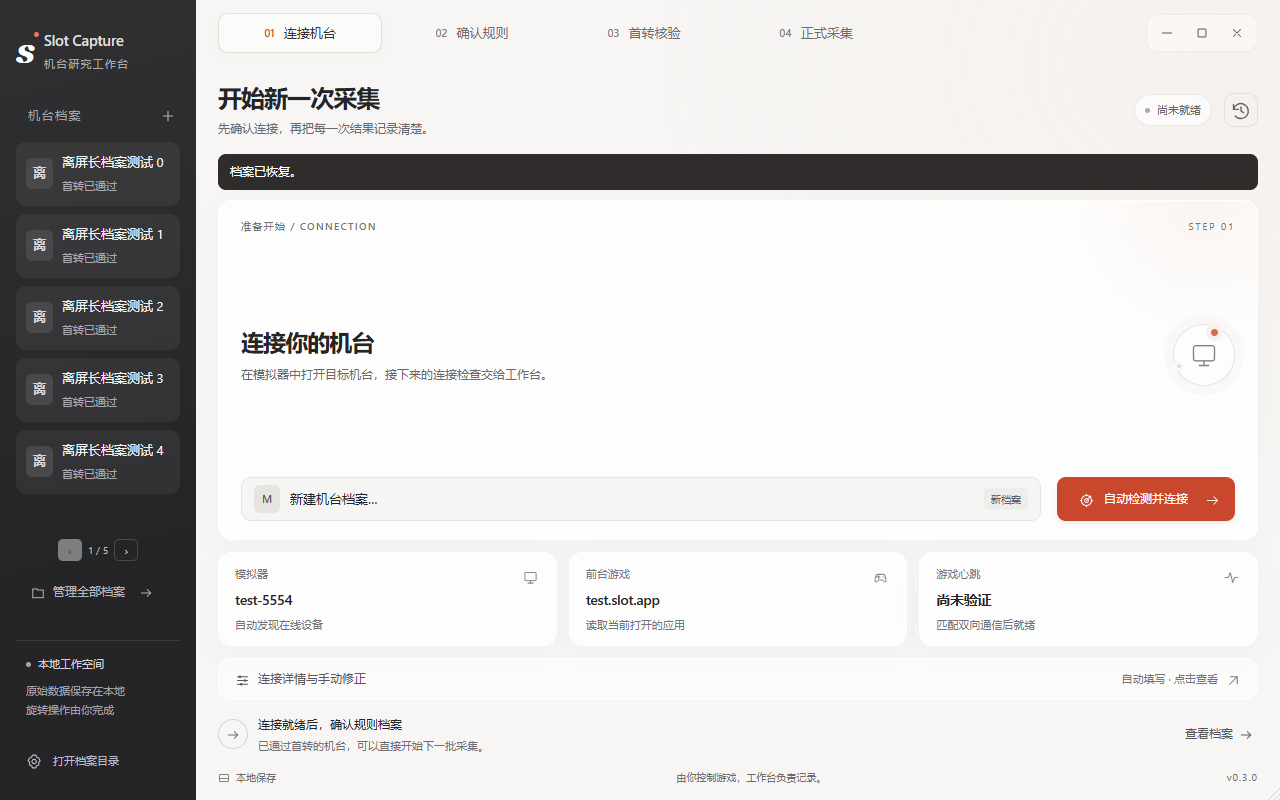
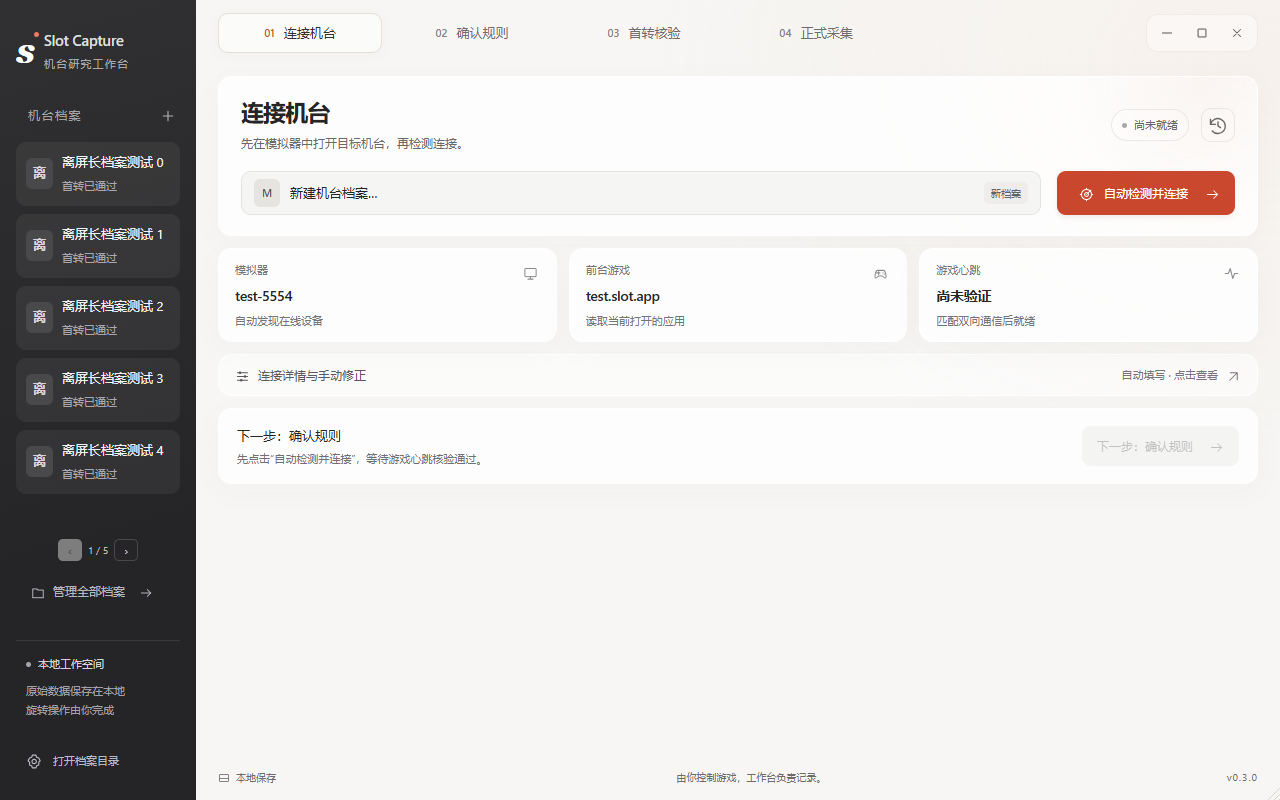
Compact connection card and add dismissible notices with clear next step

diff --git a/src/slotcapture/webui/desktop.js b/src/slotcapture/webui/desktop.js
@@ -8,7 +8,7 @@ const labels={PREPARED:'计划已建立',STARTING:'正在连接',CHECKING_CONNEC
   WAITING_FOR_SPIN:'等待你在游戏内旋转',CAPTURING:'正在记录结果',DRAINING:'请停止新增付费，等待奖励链收尾',
   COMPLETE:'最终审计完成',STOPPED_EARLY:'提前结束',STOPPED_INCOMPLETE:'数据不完整',FAILED:'采集失败'};
 const purposes={connection:'连接核验',first_spin:'首转核验',sampling:'正式采集'};
-const views={connect:['连接机台','开始新一次采集','先确认连接，再把每一次结果记录清楚。'],
+const views={connect:['连接机台','连接机台','先在模拟器中打开目标机台，再检测连接。'],
   rules:['规则档案','让规则成为可复用的档案','提取、核对、保存，下一次不用重新开始。'],
   verify:['首转核验','先验证这一转，再记录下一百转','奖励链完整、最终审计通过后，才算准备好。'],
   capture:['实时采集','专注这一批，看清每一个结果','Bet 自动读取，免费次数另计，奖励链收完再结束。']};
@@ -20,12 +20,23 @@ function changeView(name){
   ['breadcrumb-page','page-title','page-subtitle'].forEach((id,i)=>$('#'+id).textContent=views[name][i]);
   $('.content-layout').classList.toggle('rules-mode',name==='rules');
   $('.ai-panel').hidden=name!=='rules';
+  $('.workspace').classList.toggle('connection-page',name==='connect');
+  const header=$('.masthead');
+  if(name==='connect')$('.connection-header-slot').append(header);
+  else $('.workspace').insertBefore(header,$('#work-status'));
   renderRules();renderEvents();
   location.hash=name;
 }
-let toastTimer;
-function toast(text){$('#toast').textContent=text;$('#toast').hidden=false;clearTimeout(toastTimer);toastTimer=setTimeout(()=>$('#toast').hidden=true,4500);}
-function message(text,kind=''){const el=$('#work-status');el.textContent=text;el.title=text;el.className=kind;el.hidden=!text;}
+let noticeTimer,lastNoticeKey=null,dismissedNoticeKey=null;
+function dismissNotice(){dismissedNoticeKey=lastNoticeKey;$('#work-status').hidden=true;clearTimeout(noticeTimer);}
+function toast(text){if($('#status-message').textContent!==text)message(text);}
+function message(text,kind='',key=null){
+  const el=$('#work-status');key=key||kind+':'+text;
+  $('#status-message').textContent=text;$('#status-details').title=text;el.className=kind;
+  if(key===lastNoticeKey){el.hidden=!text||dismissedNoticeKey===key;return;}
+  lastNoticeKey=key;dismissedNoticeKey=null;clearTimeout(noticeTimer);el.hidden=!text;
+  if(text&&!kind)noticeTimer=setTimeout(dismissNotice,6000);
+}
 function node(tag,text,cls){const el=document.createElement(tag);if(text!==undefined)el.textContent=text;if(cls)el.className=cls;return el;}
 async function api(method,...args){
   if(!window.pywebview?.api?.[method])throw Error('桌面接口尚未就绪，请稍候；独立浏览器页面无法执行采集。');
@@ -61,6 +72,21 @@ function gates(){
   $('#capture-start').disabled=locked||!state.ready||state.dirty||!p?.first_spin_verified;
   $('#verify-start').disabled=locked||!state.ready||state.dirty||!p?.rules_confirmed||!p?.symbols?.length;
   $('#verified-shortcut').hidden=!p?.first_spin_verified||state.dirty;
+  const next=$('#connection-next');let target='rules',label='下一步：确认规则';
+  let title='下一步：确认规则',description='先点击“自动检测并连接”，等待游戏心跳核验通过。';
+  if(state.active){
+    if(state.purpose==='connection'){title='正在核验游戏心跳';label='等待连接核验…';description='保持目标机台打开，检测完成后即可继续。';}
+    else{target=state.purpose==='first_spin'?'verify':'capture';label=target==='verify'?'查看首转核验':'查看当前采集';title='当前监听尚未结束';description='先完成当前任务，再开始下一步。';}
+  }else if(state.ready){
+    title='连接已就绪';description='核对 Symbol 与特色玩法，然后保存机台规则。';
+    if(!state.dirty&&p?.rules_confirmed&&p?.symbols?.length){
+      if(p.first_spin_verified){target='capture';label='下一步：正式采集';description='此规则已通过首转核验，可以设置本批次付费次数。';}
+      else{target='verify';label='下一步：首转核验';description='规则已确认。下一步手动旋转一次，验证结果与奖励结算。';}
+    }
+  }
+  next.dataset.target=target;next.querySelector('span').textContent=label;
+  next.disabled=state.busy||state.active&&state.purpose==='connection'||!state.active&&!state.ready;
+  $('#connection-next-title').textContent=title;$('#connection-next-description').textContent=description;
 }
 async function task(text,fn){
   if(state.busy){toast('上一步仍在执行，请稍候。');return;}
@@ -256,7 +282,7 @@ async function poll(){
         const text=s.state==='COMPLETE'?(d.purpose==='connection'?'游戏心跳已核验。可以确认规则或进入首转。':d.purpose==='first_spin'&&d.profile?.first_spin_verified?'首转最终审计通过，可以开始正式采集。':`${scope}完成，记录已保存。`):`${scope}结束：${labels[s.state]}。请查看事件和记录。`;
         message(text,s.state==='COMPLETE'?'':'error');toast(text);
       }
-    }else if(state.active)message(`${scope} · ${labels[s.state]||s.state} · 更新 ${new Date(s.checked_utc).toLocaleTimeString('zh-CN')}`);
+    }else if(state.active)message(`${scope} · ${labels[s.state]||s.state} · 更新 ${new Date(s.checked_utc).toLocaleTimeString('zh-CN')}`,'',state.run+':'+s.state);
     if(d.purpose==='first_spin'){
       const passed=s.state==='COMPLETE'&&!!d.profile?.first_spin_verified;
       $('#verify-caption').textContent=passed?'首转最终审计通过':labels[s.state]||s.state;
@@ -333,9 +359,9 @@ $('#add-symbol').onclick=()=>editRow('symbols');$('#add-feature').onclick=()=>ed
 $('#connection-options').onclick=()=>$('#connection-dialog').showModal();
 $('#edit-notes').onclick=()=>$('#notes-dialog').showModal();
 $('#show-events').onclick=()=>{state.pages.events=0;renderFullEvents();$('#events-dialog').showModal();};
-function showStatus(){if(!$('#work-status').textContent)return;$('#text-title').textContent='状态详情';$('#text-body').textContent=$('#work-status').textContent;$('#text-dialog').showModal();}
-$('#work-status').onclick=showStatus;$('#work-status').tabIndex=0;$('#work-status').setAttribute('role','button');
-$('#work-status').onkeydown=e=>{if(e.key==='Enter'||e.key===' '){e.preventDefault();showStatus();}};
+function showStatus(){if(!$('#status-message').textContent)return;$('#text-title').textContent='状态详情';$('#text-body').textContent=$('#status-message').textContent;$('#text-dialog').showModal();}
+$('#status-details').onclick=showStatus;$('#status-close').onclick=dismissNotice;
+$('#connection-next').onclick=()=>{if(!$('#connection-next').disabled)changeView($('#connection-next').dataset.target);};
 async function windowCommand(action){
   try{const result=await api('window_command',action);document.body.classList.toggle('window-maximized',result.maximized);}
   catch(e){toast(e.message);}

diff --git a/src/slotcapture/webui/layout.css b/src/slotcapture/webui/layout.css
@@ -58,3 +58,18 @@ body.desktop-app{height:100dvh;min-height:0;min-width:960px;overflow:hidden}
 .desktop-app dialog{max-height:calc(100dvh - 40px);overflow-y:auto;font-size:13px}.desktop-app .dialog-heading h2{font-size:20px}.desktop-app .details-fields{padding:16px 0;gap:16px}.desktop-app .details-fields label,.desktop-app .details-fields input{font-size:12px}.desktop-app #profile-notes{width:100%;height:180px;border:1px solid #d9d2ca;border-radius:8px;background:#fff;padding:12px;font:inherit;line-height:1.8;resize:vertical}.desktop-app #text-body{white-space:pre-wrap;line-height:1.8;overflow-wrap:anywhere;font-size:13px}.desktop-app #full-events .event-row{height:auto;min-height:40px}.desktop-app #full-events .event-row p{white-space:normal;overflow-wrap:anywhere}.desktop-app #events-pager{margin-top:12px}
 @media(max-width:1100px){.desktop-app .studio{grid-template-columns:176px minmax(0,1fr)}.desktop-app .workspace{padding-inline:18px}.desktop-app .content-layout.rules-mode{grid-template-columns:minmax(0,1fr) 230px;gap:14px}.desktop-app .step-nav .nav-item{font-size:12px;padding:0 7px;gap:6px}.desktop-app .masthead h1{font-size:22px}.desktop-app .status-card{padding-inline:12px}.desktop-app .capture-setup h2{font-size:17px}.desktop-app .sidebar{padding-inline:12px}}
 @media(max-height:700px){.desktop-app .workspace{grid-template-rows:58px 60px 32px minmax(0,1fr) 18px;gap:8px;padding-bottom:10px}.desktop-app .topbar .nav-item{height:36px}.desktop-app .masthead h1{font-size:21px}.desktop-app .masthead p{font-size:11px;margin-top:4px}.desktop-app #work-status{height:32px;padding-block:5px;font-size:11px}.desktop-app #view-connect{grid-template-rows:minmax(170px,1fr) 86px 38px 40px;gap:10px}.desktop-app #view-connect .hero{padding:14px 18px;gap:8px 12px}.desktop-app #view-connect h2{font-size:21px}.desktop-app #view-connect .device-orbit{width:50px;height:50px}.desktop-app .status-card{padding-block:10px}.desktop-app #view-rules{grid-template-rows:64px minmax(0,1fr) 80px 38px;gap:8px}.desktop-app .feature-card{padding-block:7px}.desktop-app .rules-profile{padding-block:7px}.desktop-app .verify-hero{padding:16px;gap:8px}.desktop-app .verify-hero h2{font-size:21px}.desktop-app .verification-stages{gap:16px}.desktop-app .workspace-footer{font-size:9px}.desktop-app .ai-panel{gap:8px}.desktop-app .metric>strong{font-size:22px}}
+
+/* A single compact connection card; notifications never reserve a layout row. */
+.desktop-app .workspace{grid-template-rows:66px 68px minmax(0,1fr) 22px}
+.desktop-app .content-layout{grid-row:3}.desktop-app .workspace-footer{grid-row:4}
+.desktop-app .workspace.connection-page{grid-template-rows:66px minmax(0,1fr) 22px}
+.desktop-app .connection-page .content-layout{grid-row:2}.desktop-app .connection-page .workspace-footer{grid-row:3}
+.desktop-app #view-connect{grid-template-rows:auto 94px 42px 76px;align-content:start;gap:12px}
+.desktop-app #view-connect .hero{grid-template-areas:'heading heading' 'field actions';grid-template-rows:auto 44px;gap:18px 16px;padding:20px 22px;align-content:start}
+.connection-header-slot{grid-area:heading;min-width:0}.desktop-app .connection-header-slot .masthead{grid-row:auto;min-height:0;height:auto;align-items:center}
+.desktop-app .connection-header-slot .masthead h1{font-size:23px}.desktop-app .connection-header-slot .masthead p{font-size:12px;margin:6px 0 0}
+.desktop-app .next-hint{padding:14px 18px;justify-content:space-between;gap:18px}.desktop-app .next-hint>.primary-button{flex:none;min-height:40px;gap:9px}.desktop-app .next-hint p{max-width:none;line-height:1.6}.desktop-app .next-hint strong{font-size:13px}
+.desktop-app #work-status{position:fixed;top:72px;right:28px;left:auto;z-index:10;display:flex;align-items:flex-start;gap:8px;width:min(490px,calc(100vw - 230px));height:auto;min-height:42px;padding:8px 8px 8px 14px;margin:0;overflow:visible;white-space:normal;cursor:default;border-radius:12px;box-shadow:0 8px 30px #25201d24}
+#status-details{flex:1;min-width:0;padding:3px 0;background:transparent;color:inherit;text-align:left;font:inherit;line-height:1.7}#status-message{display:-webkit-box;-webkit-line-clamp:3;-webkit-box-orient:vertical;overflow:hidden;overflow-wrap:anywhere}
+#status-close{flex:none;display:grid;place-items:center;width:28px;height:28px;padding:5px;background:transparent;color:inherit;border-radius:6px}#status-close:hover{background:#ffffff20}#status-close svg{width:15px;height:15px}
+@media(max-height:700px){.desktop-app .workspace{grid-template-rows:58px 60px minmax(0,1fr) 18px}.desktop-app .workspace.connection-page{grid-template-rows:58px minmax(0,1fr) 18px}.desktop-app #view-connect{grid-template-rows:auto 86px 38px 76px}.desktop-app #view-connect .hero{padding:16px 18px;gap:16px 12px}}

diff --git a/src/slotcapture/webui/index.html b/src/slotcapture/webui/index.html
@@ -35,13 +35,12 @@
       </div>
     </div>
     <header class="masthead"><div><div class="breadcrumb">工作台 <span>/</span> <span id="breadcrumb-page">连接机台</span></div><h1 id="page-title">开始新一次采集</h1><p id="page-subtitle">先确认连接，再把每一次结果记录清楚。</p></div><div class="header-actions"><span class="connection-badge" id="connection-badge"><span></span>尚未连接</span><button class="icon-button" id="history" aria-label="查看采集历史"><i data-icon="history"></i></button></div></header>
-    <div id="work-status" role="status" aria-live="polite" hidden></div><div class="content-layout">
+    <div id="work-status" role="status" aria-live="polite" hidden><button id="status-details" title="查看完整提示"><span id="status-message"></span></button><button id="status-close" aria-label="关闭提示" title="关闭提示"><i data-icon="close"></i></button></div><div class="content-layout">
       <main id="main-content">
 
-        <section class="view active" id="view-connect" aria-labelledby="connect-heading">
+        <section class="view active" id="view-connect" aria-labelledby="page-title">
           <div class="card hero">
-            <div class="hero-top"><span class="eyebrow">准备开始 / CONNECTION</span><span class="step-label">STEP 01</span></div>
-            <div class="hero-heading"><div><h2 id="connect-heading">连接你的机台</h2><p>在模拟器中打开目标机台，<br>接下来的连接检查交给工作台。</p></div><div class="device-orbit"><i data-icon="monitor"></i><span class="orbit-dot"></span><span class="orbit-tick"></span></div></div>
+            <div class="connection-header-slot"></div>
             <label class="field-label" for="machine">当前机台</label><div class="machine-field"><span class="small-machine">M</span><select id="machine"><option value="">新建机台档案</option></select><span class="subtle-pill" id="profile-state">未建档</span></div>
             <div class="hero-actions"><button class="primary-button" id="detect"><i data-icon="radar"></i><span>自动检测并连接</span><i data-icon="arrow-right"></i></button><span class="operation-hint">不点击游戏，不改变下注</span></div>
             <div class="inline-notice" id="connection-notice" role="status" hidden></div>
@@ -52,7 +51,7 @@
             <div class="card status-card"><span class="status-symbol"><i data-icon="pulse"></i></span><span class="status-caption">游戏心跳</span><strong id="heartbeat-state">尚未验证</strong><small>匹配双向通信后就绪</small></div>
           </div>
           <button class="card connection-details" id="connection-options"><span><i data-icon="sliders"></i>连接详情与手动修正</span><span>自动填写 · 点击查看<i data-icon="arrow-up-right"></i></span></button>
-          <div class="next-hint"><span class="round-icon"><i data-icon="arrow-right"></i></span><div><strong>连接就绪后，确认规则档案</strong><p>已通过首转的机台，可以直接开始下一批采集。</p></div><button class="text-button" data-go="rules">查看档案<i data-icon="arrow-right"></i></button></div>
+          <div class="next-hint card"><div><strong id="connection-next-title">下一步：确认规则</strong><p id="connection-next-description">先完成上方连接检测，再核对机台规则。</p></div><button class="primary-button" id="connection-next" disabled><span>下一步：确认规则</span><i data-icon="arrow-right"></i></button></div>
         </section>
 
         <section class="view" id="view-rules" aria-labelledby="rules-heading">

diff --git a/design/check_desktop.py b/design/check_desktop.py
@@ -65,6 +65,9 @@ def main():
             assert page.locator('#app-version').inner_text()=='v0.3.0'
             assert page.locator('#paid-count').inner_text()=='0'
             assert page.evaluate('__mock.calls.length')==0
+            assert page.locator('.connection-header-slot .masthead').count()==1
+            assert page.locator('#view-connect .hero').bounding_box()['height']<200
+            assert page.locator('#connection-next').is_disabled()
             page.screenshot(path=str(output/'desktop-connect.png'),full_page=True,animations='disabled')
             checks.append('bootstrap: empty real UI; no automatic discovery, model or clipboard calls')
             # Manual recording and save must work without a screenshot or connection.
@@ -105,12 +108,20 @@ def main():
             page.evaluate('poll()')
             assert page.locator('#capture-start').is_disabled()
             page.evaluate('__mock.finish();poll()');page.wait_for_function('state.ready')
+            assert '首转核验' in page.locator('#connection-next').inner_text()
             checks.append('connection: failure, multi-device choice, live heartbeat proof gates first spin')
             # First-spin data must not leak into formal counters.
-            page.locator('[data-view=verify]').click();page.locator('#verify-start').click();page.wait_for_function('!state.busy')
+            page.locator('#connection-next').click();assert page.locator('#view-verify').is_visible()
+            page.locator('#verify-start').click();page.wait_for_function('!state.busy')
             page.evaluate('__mock.finish();poll()');page.wait_for_function('state.profile.first_spin_verified')
             assert page.locator('#paid-count').inner_text()=='0'
             assert '通过' in page.locator('#verify-caption').inner_text()
+            page.locator('[data-view=connect]').click()
+            assert '正式采集' in page.locator('#connection-next').inner_text()
+            page.locator('#connection-next').click();assert page.locator('#view-capture').is_visible()
+            assert page.evaluate('__mock.calls.filter(c=>c.name==="start_session").length')==1
+            checks.append('next step: explicit gated destination; navigation does not start a spin or capture')
+            page.locator('[data-view=verify]').click()
             page.screenshot(path=str(output/'desktop-verify.png'),full_page=True,animations='disabled')
             checks.append('first spin: final audit confirmation and independent counters')
             page.locator('[data-view=capture]').click();page.locator('#spin-count').fill('100');page.locator('#capture-start').click();page.wait_for_function('!state.busy')
@@ -133,6 +144,18 @@ def main():
             page.locator('#undo-delete').click();page.wait_for_function('!state.busy');assert page.locator('.archive-delete').count()==1
             page.locator('#archive-dialog .icon-button').click()
             checks.append('profiles: confirmed delete, cancellation and undo')
+            # Dismiss a floating notice without changing layout or stopping a task.
+            before=page.locator('.content-layout').bounding_box()
+            page.evaluate('message("离屏重复异常", "error", "same-error")')
+            assert page.locator('#work-status').evaluate('(el)=>getComputedStyle(el).position')=='fixed'
+            page.locator('#status-close').click();assert page.locator('#work-status').is_hidden()
+            page.evaluate('message("离屏重复异常", "error", "same-error")')
+            assert page.locator('#work-status').is_hidden()
+            page.evaluate('message("新的异常", "error", "new-error")')
+            assert page.locator('#work-status').is_visible()
+            page.locator('#status-close').click()
+            assert page.locator('.content-layout').bounding_box()==before
+            checks.append('notices: fixed dismissible layer; repeated status stays closed; new condition reopens without shifting layout')
             # Fixed chrome, single-screen pages and paginated long data.
             for action in ['minimize','maximize','maximize','close']:
                 page.locator('#window-'+action).click()
@@ -162,6 +185,10 @@ def main():
                     before=page.locator('.sidebar').bounding_box();page.mouse.wheel(0,700)
                     assert page.locator('.sidebar').bounding_box()==before
                     assert page.evaluate('scrollY')==0
+                    if view=='connect':
+                        assert page.locator('.connection-header-slot .masthead').count()==1
+                        assert page.locator('#view-connect .hero').bounding_box()['height']<200
+                    else:assert page.locator('.workspace > .masthead').count()==1
                 assert page.locator('#library-pager button').count()==2
                 page.locator('[data-view=rules]').click()
                 page.evaluate('state.pages.symbols=0;renderRules()')
@@ -170,7 +197,7 @@ def main():
                 if width in (960,1280):
                     for view in ['connect','rules','verify','capture']:
                         page.locator(f'[data-view={view}]').click()
-                        page.locator('#toast').evaluate('(el)=>el.hidden=true')
+                        page.evaluate('dismissNotice()')
                         page.screenshot(path=str(output/f'fixed-{view}-{width}.png'),animations='disabled')
             page.emulate_media(reduced_motion='reduce')
             checks.append('layout: no clipped controls/scrolling at 960x640,1200x720,1280x800,1440x900; fixed sidebar, contextual assistant, long lists paginate')

diff --git a/design/DESIGN.md b/design/DESIGN.md
@@ -38,6 +38,8 @@
 
 v0.3.0后续布局修订保持版本号：无系统白色标题栏，右上角提供最小化、最大化/还原和关闭，顶部空白区可拖动，右下角可调整窗口大小。窗口按钮独立于采集/识图锁，检测繁忙时也可用；关闭窗口不停止后台采集。主窗口固定为一屏布局，长Symbol/玩法/档案列表分页，事件显示近期记录并提供分页详情，连接参数和规则备注用弹窗查看。布局回归覆盖960×640至1440×900，检查内容高度和按钮位置，不以隐藏滚动条代替适配。
 
+连接页进一步合并页标题和连接操作，不让低信息卡片占满剩余高度。状态横条改成可关闭的浮层；普通消息自动收起，同一状态的重复轮询不会重新打开已关闭提示。底部使用真实按钮给出明确下一步，依据连接/规则/首转证据切换目的地，点击仅导航。
+
 ## 离屏验证
 
 `requirements-design.txt` 是可选的设计渲染依赖，与正式程序依赖分开。运行 `python design/render_preview.py` 使用独立的无界面浏览器上下文，只打开本地设计稿，不触碰用户浏览器会话、剪贴板或模拟器。截图保存到 `design/previews/`。

diff --git a/docs/desktop-v0.3.md b/docs/desktop-v0.3.md
@@ -4,6 +4,10 @@
 
 去掉系统白色标题栏，最小化、最大化/还原和关闭按钮嵌入右上角。顶部空白区域可拖动窗口，双击可最大化/还原，右下角可拖动调整大小。支持的最小尺寸为960×640，现场系统缩放仍需用户确认。
 
+连接页标题、机台选择与检测合并为紧凑卡片。底部明确标出下一步：连接通过后先确认规则；规则已确认可进入首转；首转已验证可进入正式采集。点击下一步只切换页面，不启动游戏或监听。
+
+状态提示为可关闭的浮层，不占主页面空间。普通提示6秒后收起，异常/需操作提示保留至用户关闭；同一状态轮询不重复弹出，新的状态或异常仍会提示。关闭提示只隐藏通知，不改变采集状态。
+
 ## 使用流程
 
 1. 在模拟器中打开目标机台，工作台选择已有档案，或新建档案。
